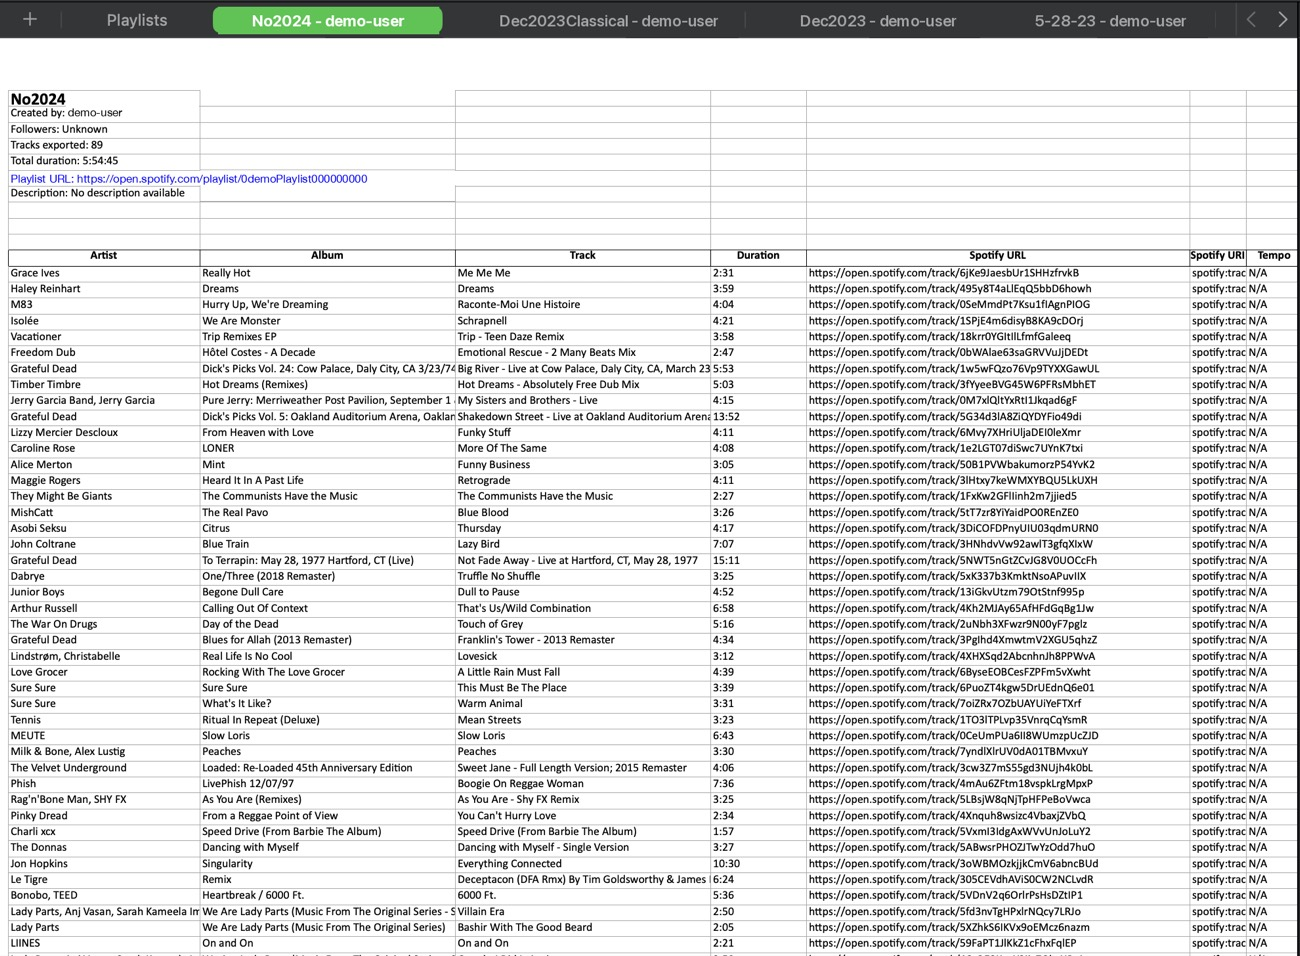
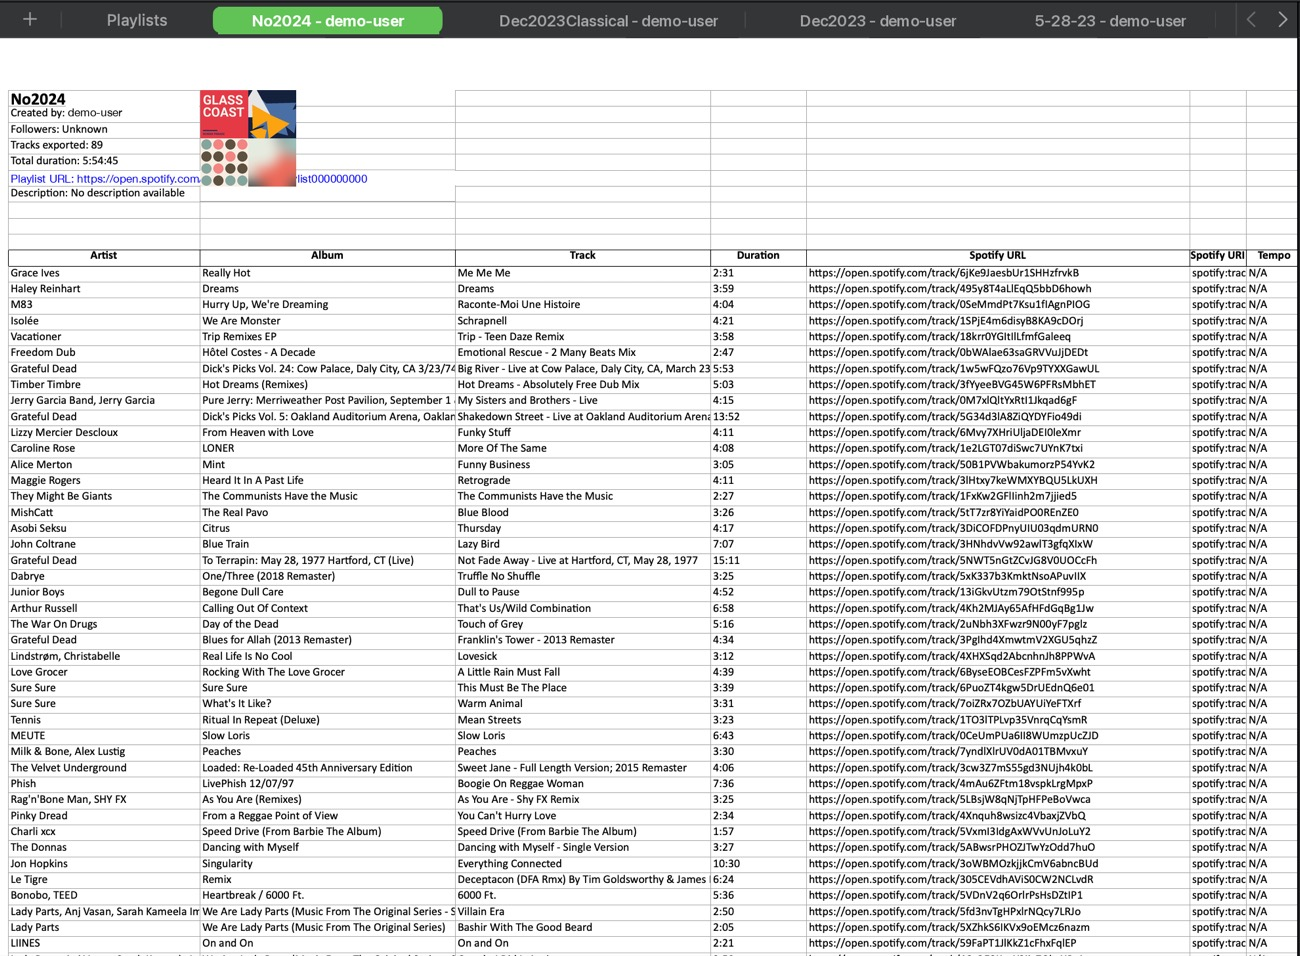
docs: add a generated playlist cover to the export-sheet screenshot
Place a 2x2 mosaic from scripts/screenshot_covers.py where the real
album-art thumbnail sat, matching how exports embed the playlist cover.

Changed region(s): [[0.1538, 0.091, 0.2462, 0.2123]]

diff --git a/dev-docs/exec-plans/active/2026-10-18-app-icon-and-source-launcher.md b/dev-docs/exec-plans/active/2026-10-18-app-icon-and-source-launcher.md
@@ -67,7 +67,7 @@ The README used hand-redacted March 2026 captures with the old title, real liste
 - [x] Use a throwaway cache directory, so the run neither reads nor pollutes the real user cache, and so the cache explorer shows only fixture data.
 - [x] Capture: login, playlist grid, playlist analysis, tracks view, cache explorer. The exported sheet is skipped: the XLSX is built by the Cloudflare Worker, which the mock does not emulate, and rendering it needs a GUI spreadsheet app.
 - [x] Inspect every capture at full size before committing. Confirm no username, home path, real playlist ID, or real cover art appears, and strip metadata on save.
-- [x] Replace the README images with the mock-data captures. Done 2026-10-19: README shows the playlist grid, analysis and tracks shots; `screenshot-export-sheet.jpg` cannot come from the mock (the Worker builds the XLSX), so it is the owner's real export, redacted by repainting personal fields with fictional values in matching fonts (tabs, Created by, playlist URL; album-art thumbnail removed). The hand-redacted originals in `tmp/` are left for the owner to delete.
+- [x] Replace the README images with the mock-data captures. Done 2026-10-19: README shows the playlist grid, analysis and tracks shots; `screenshot-export-sheet.jpg` cannot come from the mock (the Worker builds the XLSX), so it is the owner's real export, redacted by repainting personal fields with fictional values in matching fonts (tabs, Created by, playlist URL; real album-art thumbnail replaced with a generated mosaic from `scripts/screenshot_covers.py`). The hand-redacted originals in `tmp/` are left for the owner to delete.
 
 ## Phase 3 — Double-clickable launcher with first-run icon association
 
